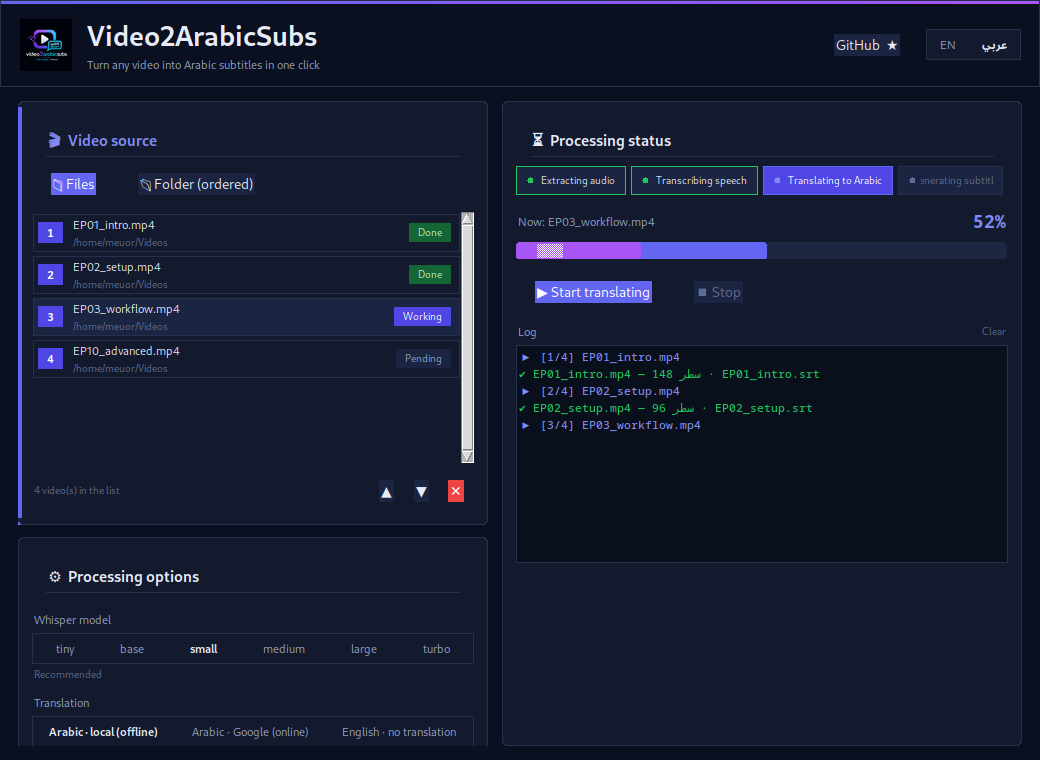
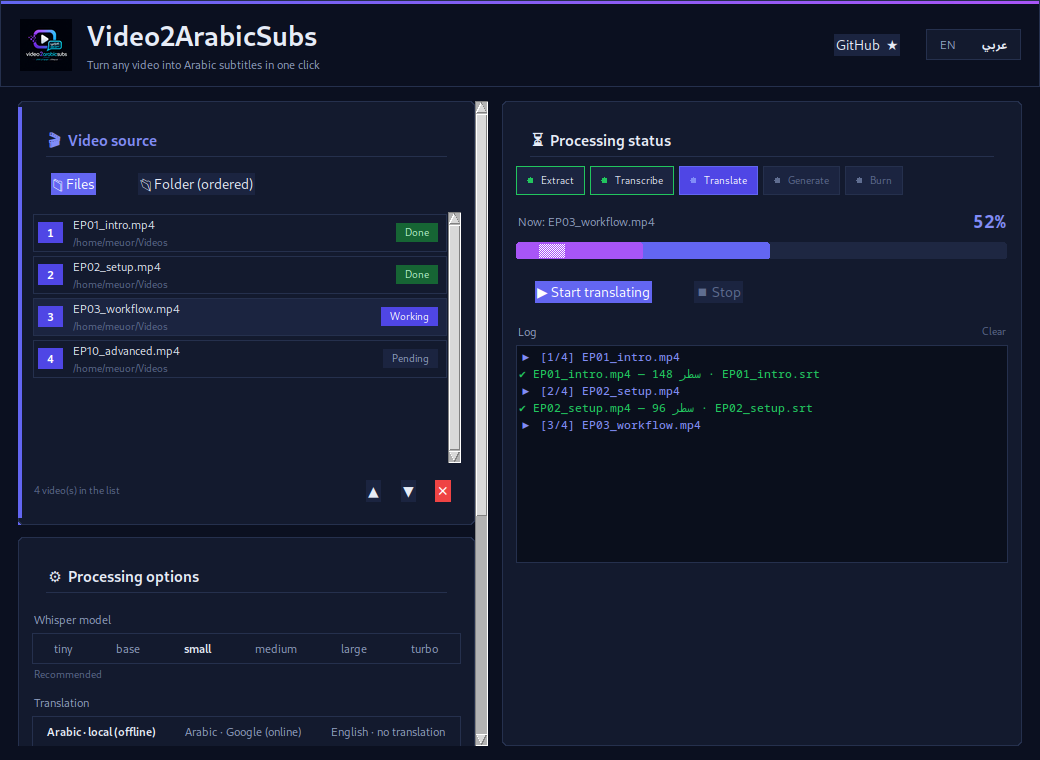
Make the options card reachable: scrollable left column
The left column (source + options cards) was packed at a fixed height
with no way to scroll, while the content needs ~1000px against 525-645px
of available height on any normal window (min 900x640, default 1040x760).
The packer simply clipped everything below the "extras" label, so the
three toggles (credit line / burn-in / BOM) were unreachable — reported
as 'the part below extras is not visible and there is no way to reveal
it'.

* col_left now wraps a canvas + inner frame: the column stretches to the
  window height when the content fits (identical look to before — the
  source card absorbs the slack) and scrolls when it doesn't.
* The scrollbar is only packed while scrolling is actually possible, so
  roomy windows look exactly as they did.
* Wheel scrolling (X11 Button-4/5 + MouseWheel) goes through a bind_all
  handler that walks the parent chain, so it works over any child of the
  column — that's how Tk delivers wheel events (to the widget under the
  cursor, not to its ancestors).
* The new Card-body sync binds with add="+": Card binds its own
  <Configure> there to keep the card height in sync with its content —
  replacing that binding froze the cards at the default canvas height.
* A light 300ms periodic sync backs the event-driven one: startup text
  re-wrapping can shrink a card's request without raising any Configure
  event, which left a stale scroll region (1211 vs the real 1000) and
  pushed the options card out of view.
[…]

diff --git a/app/gui.py b/app/gui.py
@@ -191,15 +191,103 @@ class App:
         self.body = tk.Frame(self.root, bg=theme.BG)
         self.body.pack(fill="both", expand=True, padx=18, pady=14)
 
-        # two columns; order flipped for RTL
+        # two columns; order flipped for RTL.
+        # col_left (source + options) scrolls vertically: on short windows
+        # the options card used to be clipped right below "extras", leaving
+        # the toggles unreachable. When everything fits the column still
+        # stretches exactly like before (the source card absorbs the slack).
         self.col_left = tk.Frame(self.body, bg=theme.BG)
         self.col_right = tk.Frame(self.body, bg=theme.BG)
 
-        self._build_source_card(self.col_left)
-        self._build_options_card(self.col_left)
+        self.col_canvas = tk.Canvas(self.col_left, bg=theme.BG,
+                                    highlightthickness=0, bd=0)
+        self.col_scroll = tk.Scrollbar(self.col_left, orient="vertical",
+                                       command=self.col_canvas.yview)
+        self.col_inner = tk.Frame(self.col_canvas, bg=theme.BG)
+        self._col_win = self.col_canvas.create_window((0, 0), window=self.col_inner,
+                                                      anchor="nw")
+        self.col_scroll.pack(side="right", fill="y")
+        self.col_canvas.pack(side="left", fill="both", expand=True)
+        self.col_canvas.configure(yscrollcommand=self.col_scroll.set)
+
+        self._build_source_card(self.col_inner)
+        self._build_options_card(self.col_inner)
         self._build_job_card(self.col_right)
 
+        self.col_canvas.bind("<Configure>", self._sync_left_scroll)
+        # add="+" is essential: Card binds its own <Configure> handler on
+        # body to keep the card height in sync — replacing it would freeze
+        # the cards at their default canvas height.
+        self.card_source.body.bind("<Configure>", self._sync_left_scroll, add="+")
+        self.card_options.body.bind("<Configure>", self._sync_left_scroll, add="+")
+        # Settling can also happen WITHOUT any Configure event (e.g. text
+        # re-wrapping after the first width pass shrinks a card's request
+        # silently) — a light periodic sync guarantees the scroll region
+        # always converges to the real content height.
+        self._left_sync_tick()
+        self._bind_wheel()
+
         self._pack_columns()
+
+    def _left_sync_tick(self):
+        if self._closing:
+            return
+        self._sync_left_scroll()
+        try:
+            self.root.after(300, self._left_sync_tick)
+        except tk.TclError:
+            pass
+
+    # ── left column scrolling ──────────────────────────────
+    def _sync_left_scroll(self, _event=None):
+        # Stretch the inner frame to the column height when the content
+        # fits (no scrollbar, source card expands — the classic layout);
+        # grow it past the column when the content is taller, so the area
+        # below "extras" becomes reachable by scrolling. The scrollbar is
+        # only packed while scrolling is actually possible, so nothing
+        # changes visually on roomy windows.
+        try:
+            cw = self.col_canvas.winfo_width()
+            if cw <= 1:
+                return
+            ch = self.col_canvas.winfo_height()
+            req = self.col_inner.winfo_reqheight()
+            h = max(ch, req)
+            self.col_canvas.itemconfigure(self._col_win, width=cw, height=h)
+            self.col_canvas.configure(scrollregion=(0, 0, cw, h))
+            if req > ch + 1:
+                if not self.col_scroll.winfo_ismapped():
+                    self.col_scroll.pack(side="right", fill="y")
+            elif self.col_scroll.winfo_ismapped():
+                self.col_scroll.pack_forget()
+        except tk.TclError:
+            pass
+
+    def _bind_wheel(self):
+        # Wheel events are delivered to the widget under the cursor —
+        # usually a child of the column — so listen application-wide and
+        # walk up the parent chain to decide whether to scroll.
+        self.root.bind_all("<MouseWheel>", self._on_wheel_left, add="+")
+        self.root.bind_all("<Button-4>", self._on_wheel_left, add="+")
+        self.root.bind_all("<Button-5>", self._on_wheel_left, add="+")
+
+    def _on_wheel_left(self, event):
+        w = event.widget
+        while w is not None and w is not self.col_left:
+            w = getattr(w, "master", None)
+        if w is None:
+            return None                     # pointer outside the column
+        num = getattr(event, "num", None)
+        if num in (4, 5):                   # X11 wheel
+            step = -1 if num == 4 else 1
+        else:                               # Windows / macOS wheel
+            delta = getattr(event, "delta", 0)
+            if not delta:
+                return None
+            step = (-int(round(delta / 120)) if abs(delta) >= 60
+                    else (-1 if delta > 0 else 1))
+        self.col_canvas.yview_scroll(step, "units")
+        return "break"
 
     def _pack_columns(self):
         for col in (self.col_left, self.col_right):
